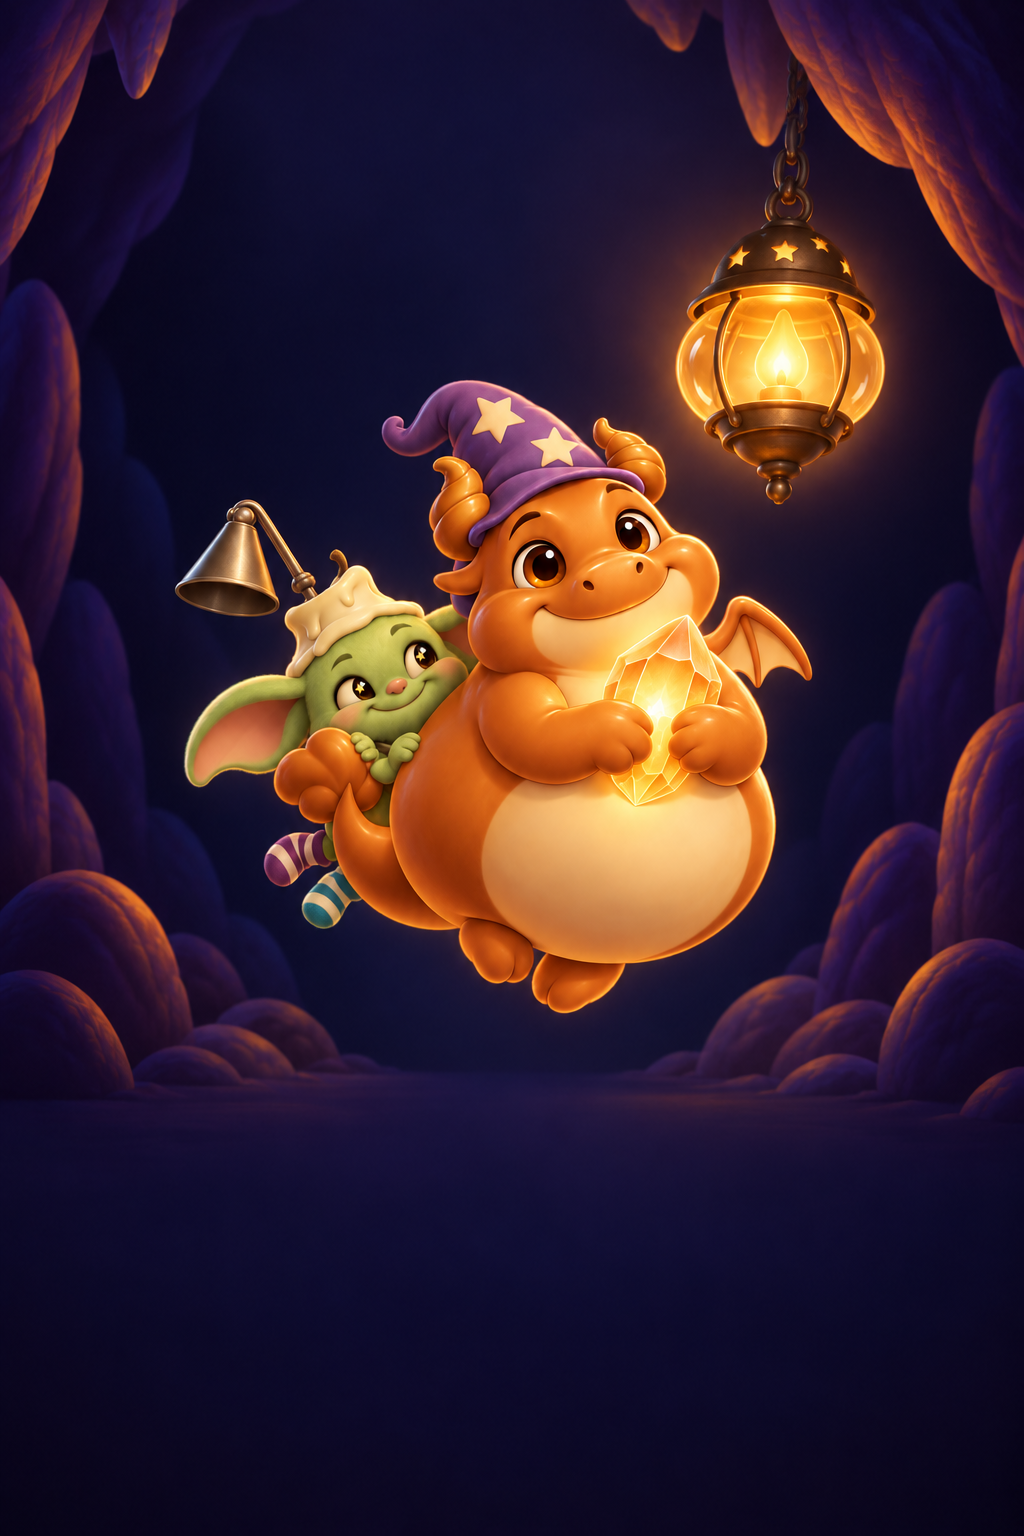
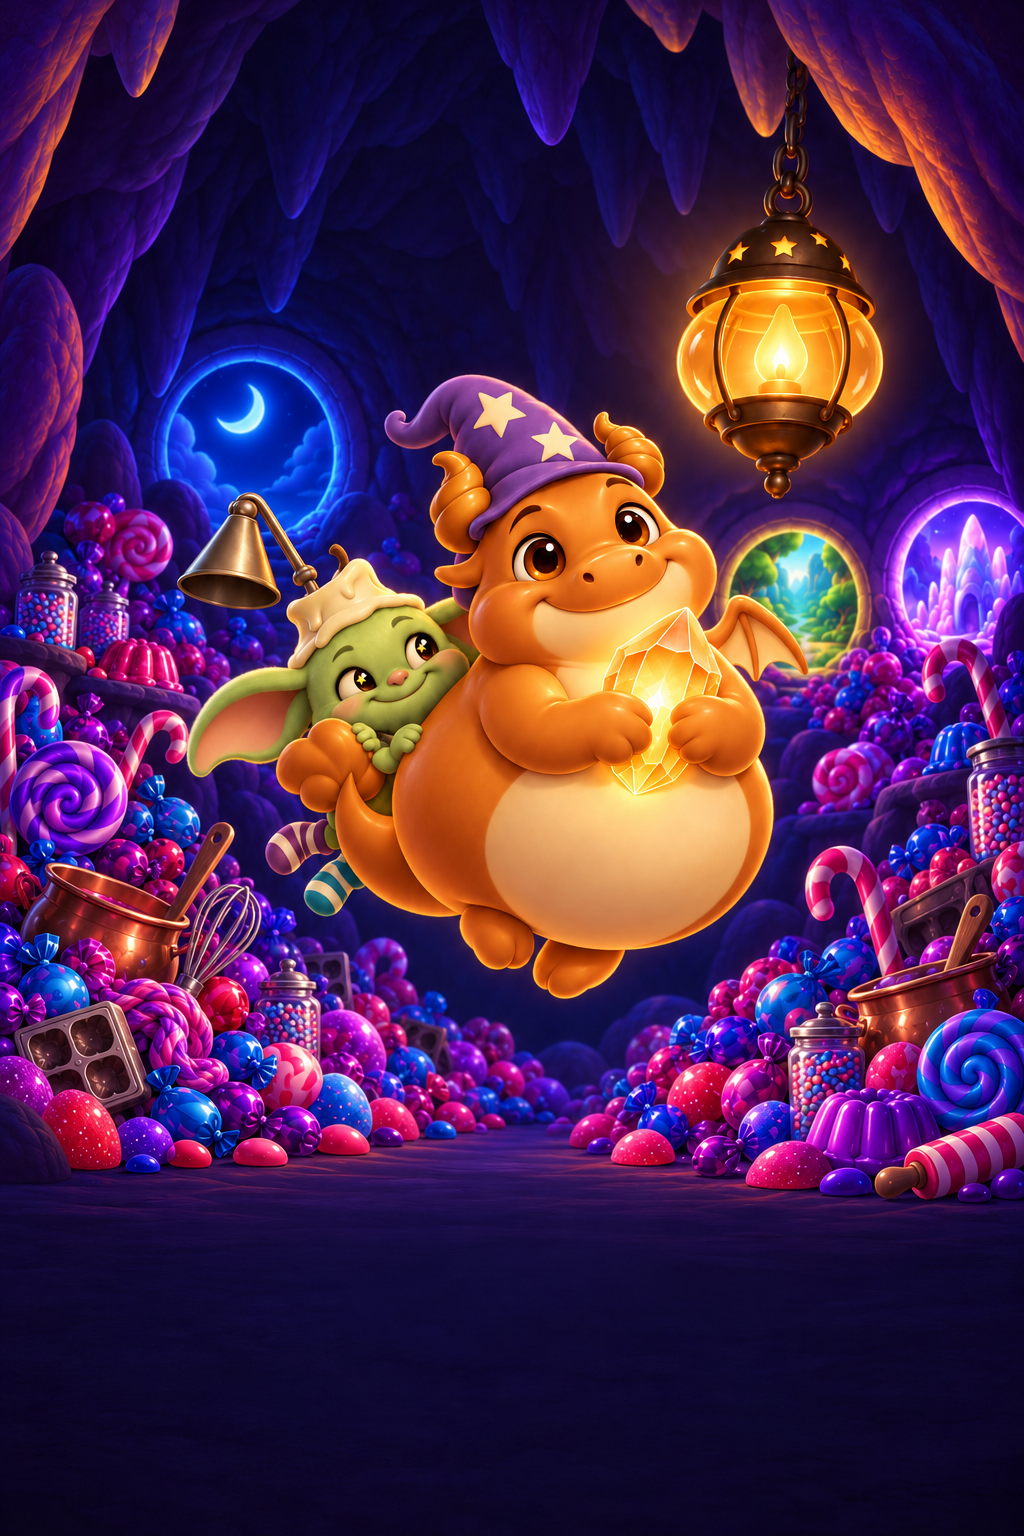
Storybook: new key art in the hoard cave; sprites sized by column width (fixes the double hat on page 7)

diff --git a/site/index.html b/site/index.html
@@ -7,20 +7,20 @@
 <meta name="description" content="The story of Butterscotch the sleepy candy dragon, Snuffwick the goblin, and the crystal you tapped. A Halloween storytelling station built at home.">
 <meta property="og:title" content="Dragonglow — The Sleepy Candy Dragon">
 <meta property="og:description" content="Your crystal is a piece of a dragon's egg. Here is the story, and a page for grown-ups.">
-<meta property="og:image" content="https://halloween.ciancio.cloud/img/print_keyart.webp">
+<meta property="og:image" content="https://halloween.ciancio.cloud/img/print_keyart.webp?v=g2">
 <meta name="theme-color" content="#1b1033">
 <link rel="icon" href="img/prop_crystal.webp" type="image/webp">
 <link rel="preconnect" href="https://fonts.googleapis.com">
 <link rel="preconnect" href="https://fonts.gstatic.com" crossorigin>
 <link href="https://fonts.googleapis.com/css2?family=Fredoka:wght@500;700&family=Lora:ital,wght@0,400;0,600;1,400&display=swap" rel="stylesheet">
-<link rel="stylesheet" href="style.css">
+<link rel="stylesheet" href="style.css?v=g2">
 </head>
 <body>
 
 <!-- ===================== COVER ===================== -->
 <header class="cover" id="top">
   <div class="cover-art">
-    <img src="img/print_keyart.webp" alt="Butterscotch the candy dragon floats in his cave hugging a glowing crystal, with Snuffwick the goblin peeking over his shoulder and the Hoard Beacon hanging above." width="640" height="960" fetchpriority="high">
+    <img src="img/print_keyart.webp?v=g2" alt="Butterscotch the candy dragon floats in his cave hugging a glowing crystal, with Snuffwick the goblin peeking over his shoulder and the Hoard Beacon hanging above." width="640" height="960" fetchpriority="high">
   </div>
   <div class="cover-text">
     <p class="cover-kicker">A Halloween storybook</p>

diff --git a/site/style.css b/site/style.css
@@ -154,16 +154,16 @@ a { color: var(--hat); }
 .page-art .bg-dark { filter: brightness(.55) saturate(.8); }
 .sprite {
   position: absolute;
-  width: auto;
+  height: auto;
   filter: drop-shadow(0 12px 18px rgba(0,0,0,.5));
 }
-.s-dragon       { height: 72%; left: 50%; top: 10%; transform: translateX(-50%); }
-.s-dragon-right { height: 62%; right: 2%; top: 14%; }
-.s-goblin       { height: 70%; left: 50%; bottom: 4%; transform: translateX(-50%); }
-.s-goblin-small { height: 40%; left: 6%; bottom: 5%; }
-.s-crystal      { height: 48%; left: 14%; bottom: 14%; }
-.s-hat          { height: 22%; right: 10%; top: 10%; }
-.s-prop { height: 42%; top: 29%; }
+.s-dragon       { width: 46%; left: 50%; top: 8%; transform: translateX(-50%); }
+.s-dragon-right { width: 40%; right: 3%; top: 12%; }
+.s-goblin       { width: 40%; left: 50%; bottom: 4%; transform: translateX(-50%); }
+.s-goblin-small { width: 22%; left: 6%; bottom: 5%; }
+.s-crystal      { width: 30%; left: 12%; bottom: 14%; }
+.s-hat          { width: 20%; right: 6%; bottom: 8%; }
+.s-prop { width: 26%; top: 28%; }
 .s-prop-1 { left: 4%; }
 .s-prop-2 { left: 50%; transform: translateX(-50%); }
 .s-prop-3 { right: 4%; }
